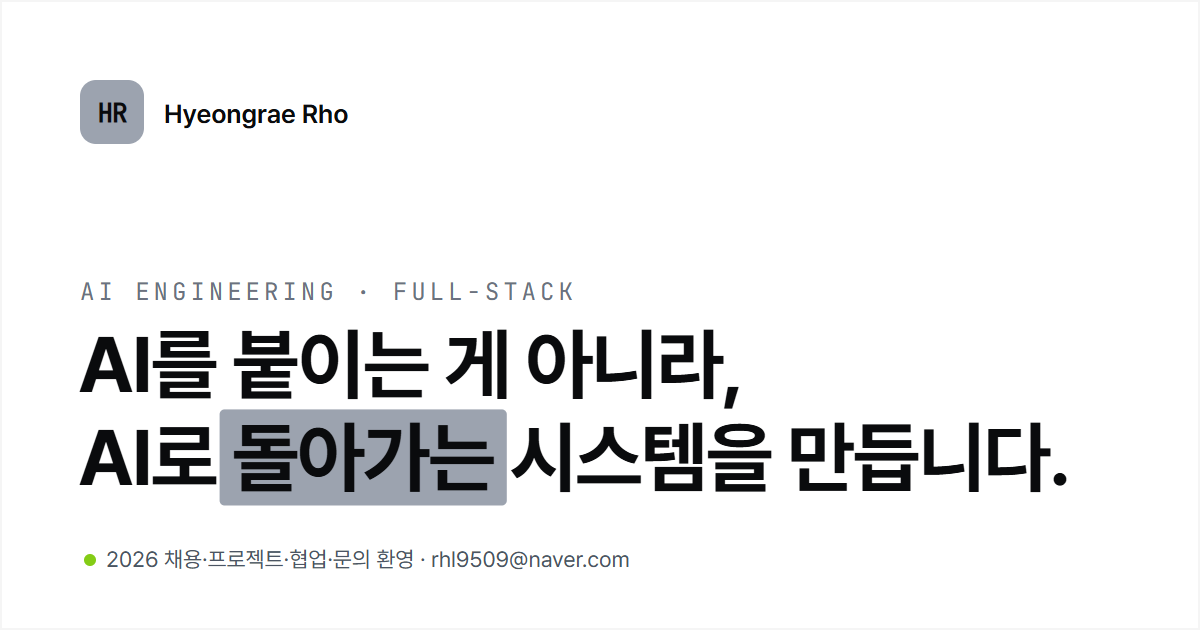
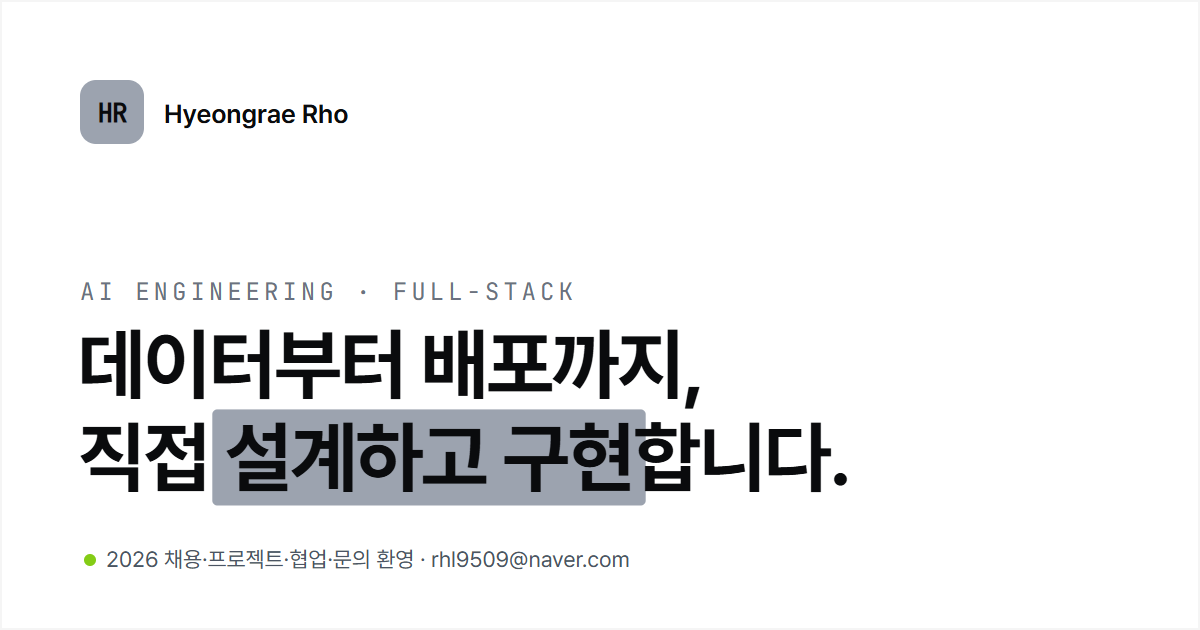
헤드라인 교체 — "AI로 돌아가는 시스템" → "직접 설계하고 구현합니다"
기존 헤드라인은 (1) AI 반복 + "붙이다"가 모호했고 (2) "돌아간다"에
과하게 초점이 쏠렸다(사용자 지적). 범위 축으로 바꿨다: "데이터부터
배포까지, 직접 [설계하고 구현]합니다." 강조어에 협업을 배제하는 함의가
없어 "혼자서" 계열의 문제도 피한다(목록 절반이 팀 프로젝트).

intro 는 그대로(AX 논증) — 헤드라인이 범위를, intro 가 이유를 맡는다.
OG 카드도 동기화: 새 문구로 og.svg 갱신 + 형광펜 rect 를 실제 CDN 폰트
getBBox 로 재측정(x=212.3 w=433.4) 후 og.png 재생성. <br> load-bearing
주석도 새 어절("배포까지,"/"직접")로 갱신.

Changed region(s): [[0.0617, 0.5127, 0.8942, 0.8143]]

diff --git a/Portfolio.tsx b/Portfolio.tsx
@@ -401,7 +401,7 @@ a.pf-visit:hover { color: var(--ink); border-color: var(--ink); background: var(
   .pf-social-row { flex-direction: column; align-items: stretch; }
   .pf-social { justify-content: center; height: 44px; }
   /* the <br> in the headline is load-bearing: it stands in for the only space
-     between "아니라," and "AI로". Hiding it welds them into one token that
+     between "배포까지," and "직접". Hiding it welds them into one token that
      word-break: keep-all refuses to split, and the card overflows. */
 }
 
@@ -507,8 +507,8 @@ export default function Portfolio({
   tagline = "AI Engineering · Full-stack",
   headline = (
     <>
-      AI를 붙이는 게 아니라,<br />AI로{" "}
-      <span style={{ background: V.hlBg, color: V.hlInk, padding: "0.02em 0.16em", borderRadius: "var(--radius-xs)", WebkitBoxDecorationBreak: "clone", boxDecorationBreak: "clone" }}>돌아가는</span> 시스템을 만듭니다.
+      데이터부터 배포까지,<br />직접{" "}
+      <span style={{ background: V.hlBg, color: V.hlInk, padding: "0.02em 0.16em", borderRadius: "var(--radius-xs)", WebkitBoxDecorationBreak: "clone", boxDecorationBreak: "clone" }}>설계하고 구현</span>합니다.
     </>
   ),
   intro = "AI는 만들 수 있는 사람이 많아졌습니다. 어려운 건 그게 매일의 업무 위에서 실제로 도는 상태, AX입니다. 모델 혼자 되는 일이 아니라 인프라와 서버, 백엔드, 프론트가 함께 받쳐야 하는 일이라, 그 전체를 풀스택으로 만듭니다.",
